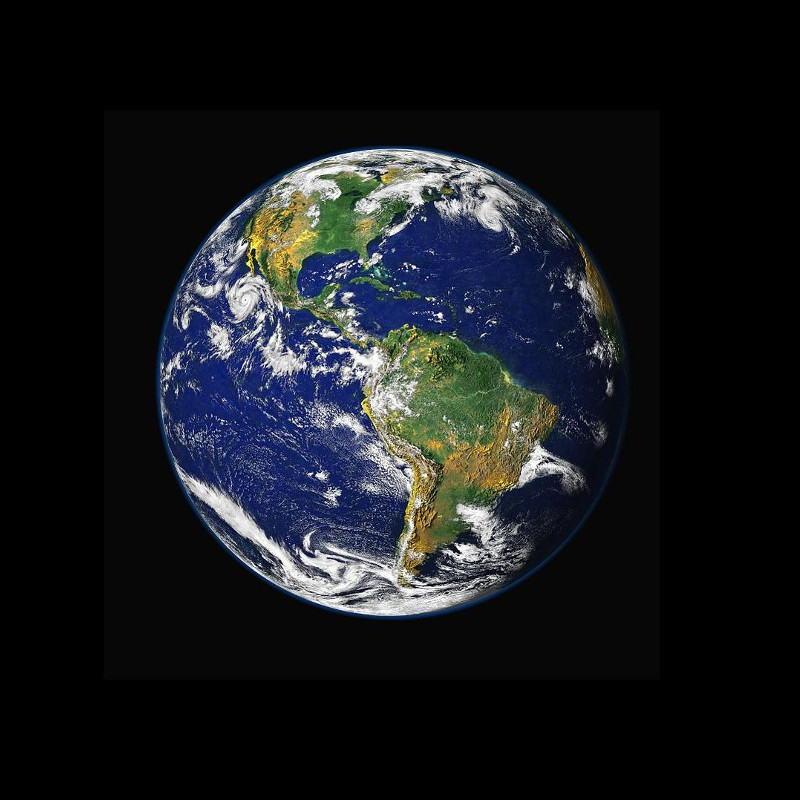
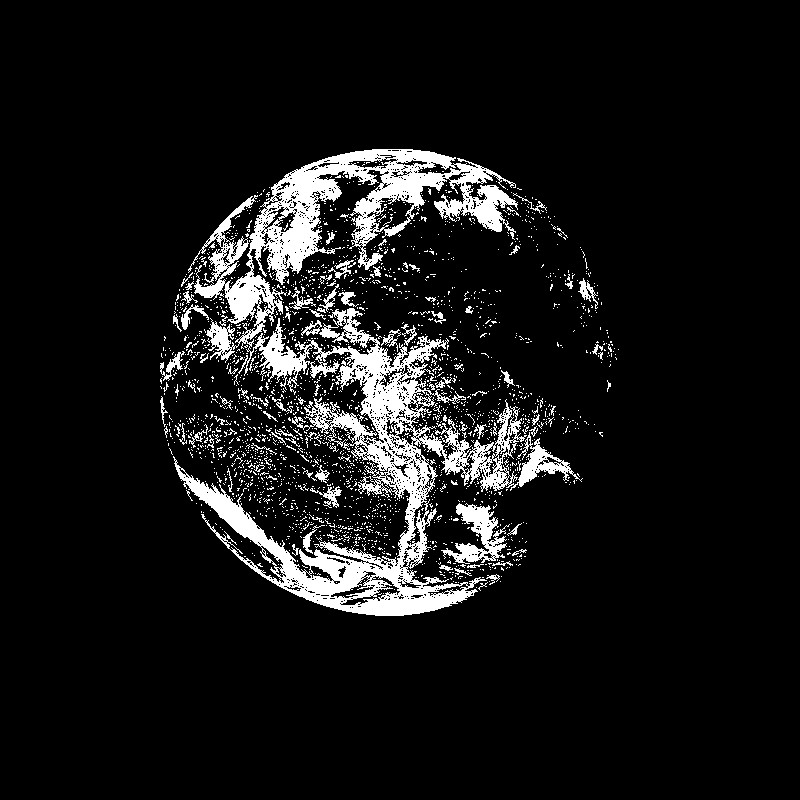
Added equalization and mask

Changed region(s): [[0.1875, 0.1562, 0.8125, 0.7812]]

diff --git a/lib/mask.rb b/lib/mask.rb
@@ -1,19 +1,30 @@
 require 'rmagick'
 require_relative 'common'
+require_relative 'logic'
 
 module Mask
   include Common
+  include Logic
 
-  def mask(image, mask_pixel, mask_x, mask_y, mask_width, mask_height)
-    result = Magick::Image.new image.columns, image.rows
+  def mask(image, mask, mask_x, mask_y, mask_width, mask_height)
+    applied_mask = fetch_mask(image, mask, mask_x, mask_y, mask_width, mask_height)
+    logic_and image, applied_mask
+  end
 
-    image.each_pixel do |pixel, column, row|
-      masked = masked? column, row, mask_x, mask_y, mask_width, mask_height
-      stored_pixel = masked ? mask_pixel : pixel
-      result.store_pixels column, row, 1, 1, [stored_pixel]
-    end
+  def fetch_mask(image, mask, mask_x, mask_y, mask_width, mask_height)
+    return mask if mask.is_a? Magick::Image
+    mask_from_pixel(image, mask, mask_x, mask_y, mask_width, mask_height)
+  end
 
-    result
+  def mask_from_pixel(image, pixel, mask_x, mask_y, mask_width, mask_height)
+    mask = Magick::Image.new(image.columns, image.rows) { self.background_color = 'white' }
+    painter = Magick::Draw.new
+    painter.stroke_opacity 0
+    painter.stroke_width 0
+    painter.fill "rgb(#{pixel.red}, #{pixel.green}, #{pixel.blue})"
+    painter.rectangle(mask_x, mask_y, mask_x + mask_width, mask_y + mask_height)
+    painter.draw mask
+    mask
   end
 
   def masked?(column, row, mask_x, mask_y, mask_width, mask_height)

diff --git a/lib/equalization.rb b/lib/equalization.rb
@@ -1,0 +1,36 @@
+require 'rmagick'
+require_relative 'common'
+
+module Equalization
+  include Common
+
+  def equalize(image)
+    pixels = hsla_equalized(image).map { |hsla_properties| hsla_to_rgb hsla_properties }.flatten
+    Magick::Image.constitute image.columns, image.rows, MODE, pixels
+  end
+
+  def hsla_equalized(image)
+    pixels_hsla = image.export_pixels.each_slice(3).to_a.map { |channels| rgb_to_hsla(channels) }
+    luminance_equalized = equalize_cdf pixels_hsla.map { |properties| properties[2] }
+    pixels_hsla.each_with_index.map { |properties, index| properties[2] = luminance_equalized[index]; properties }
+  end
+
+  def cdf(values)
+    sorted_histogram(values).reduce({}) do |cdf, (value, count)|
+      cdf.merge! value => cdf.keys.empty? ? count : count + cdf[cdf.keys.last]
+      cdf
+    end
+  end
+
+  def equalize_cdf(values)
+    cdf_results = cdf(values)
+    cdf_min = cdf_results.values.min
+    pixels_capacity = values.count
+
+    values.map { |value| equalize_value cdf_results[value], cdf_min, pixels_capacity }
+  end
+
+  def equalize_value(cdf, cdf_min, pixels_capacity)
+    ((cdf - cdf_min).to_f / (pixels_capacity - cdf_min) * (TOP_SATURATION_LUMINANCE - 1)).round
+  end
+end

diff --git a/lib/common.rb b/lib/common.rb
@@ -1,5 +1,8 @@
+require 'rmagick'
+
 module Common
   TOP_BRIGHTNESS = 65535
+  TOP_SATURATION_LUMINANCE = 255
   MODE = 'RGB'.freeze
 
   def paired_pixels(image_a, image_b)
@@ -13,5 +16,31 @@ module Common
   def threshold(value)
     return 0 if value < 0
     value > TOP_BRIGHTNESS ? TOP_BRIGHTNESS : value
+  end
+
+  def threshold_hsla(properties)
+    [properties[0], properties[1..2].map { |value| threshold_saturation_luminance value }, properties[3]].flatten
+  end
+
+  def threshold_saturation_luminance(value)
+    return 0 if value < 0
+    value > TOP_SATURATION_LUMINANCE ? TOP_SATURATION_LUMINANCE : value
+  end
+
+  def histogram(values)
+    values.group_by { |value| value }.reduce({}) { |a, (key, value)| a.merge key => value.count }
+  end
+
+  def sorted_histogram(values)
+    histogram(values).sort_by { |key, _| key }
+  end
+
+  def rgb_to_hsla(channels)
+    Magick::Pixel.new(*channels).to_hsla
+  end
+
+  def hsla_to_rgb(properties)
+    pixel = Magick::Pixel.from_hsla(*(threshold_hsla(properties)))
+    [pixel.red, pixel.green, pixel.blue]
   end
 end

diff --git a/lib/paths/equalization.rb b/lib/paths/equalization.rb
@@ -1,16 +1,14 @@
 module Paths
-  module Mask
+  module Equalization
     STORAGE_FOLDER = "#{File.dirname(__FILE__)}/../../storage".freeze
-    SCRIPT_FOLDER = 'mask'.freeze
+    SCRIPT_FOLDER = 'equalization'.freeze
     SOURCE_PATH = "#{STORAGE_FOLDER}/#{SCRIPT_FOLDER}/source".freeze
     OUTPUT_PATH = "#{STORAGE_FOLDER}/#{SCRIPT_FOLDER}/output".freeze
     IMAGE_PATH = '%{folder_path}/%{image_name}'.freeze
 
     PATHS = {
         image: IMAGE_PATH % { folder_path: SOURCE_PATH, image_name: 'image.jpg' },
-        mask: IMAGE_PATH % { folder_path: SOURCE_PATH, image_name: 'mask.jpg' },
-        masked_pixel: IMAGE_PATH % { folder_path: OUTPUT_PATH, image_name: 'masked_pixel.png'},
-        masked_image: IMAGE_PATH % { folder_path: OUTPUT_PATH, image_name: 'masked_image.png' }
+        equalized: IMAGE_PATH % { folder_path: OUTPUT_PATH, image_name: 'equalized.png' }
     }.freeze
   end
 end

diff --git a/lib/paths.rb b/lib/paths.rb
@@ -2,10 +2,12 @@ require 'paths/logic'
 require 'paths/arithmetic'
 require 'paths/arithmetic_constant'
 require 'paths/mask'
+require 'paths/equalization'
 
 module Paths
   include Paths::Logic
   include Paths::Arithmetic
   include Paths::ArithmeticConstant
   include Paths::Mask
+  include Paths::Equalization
 end
